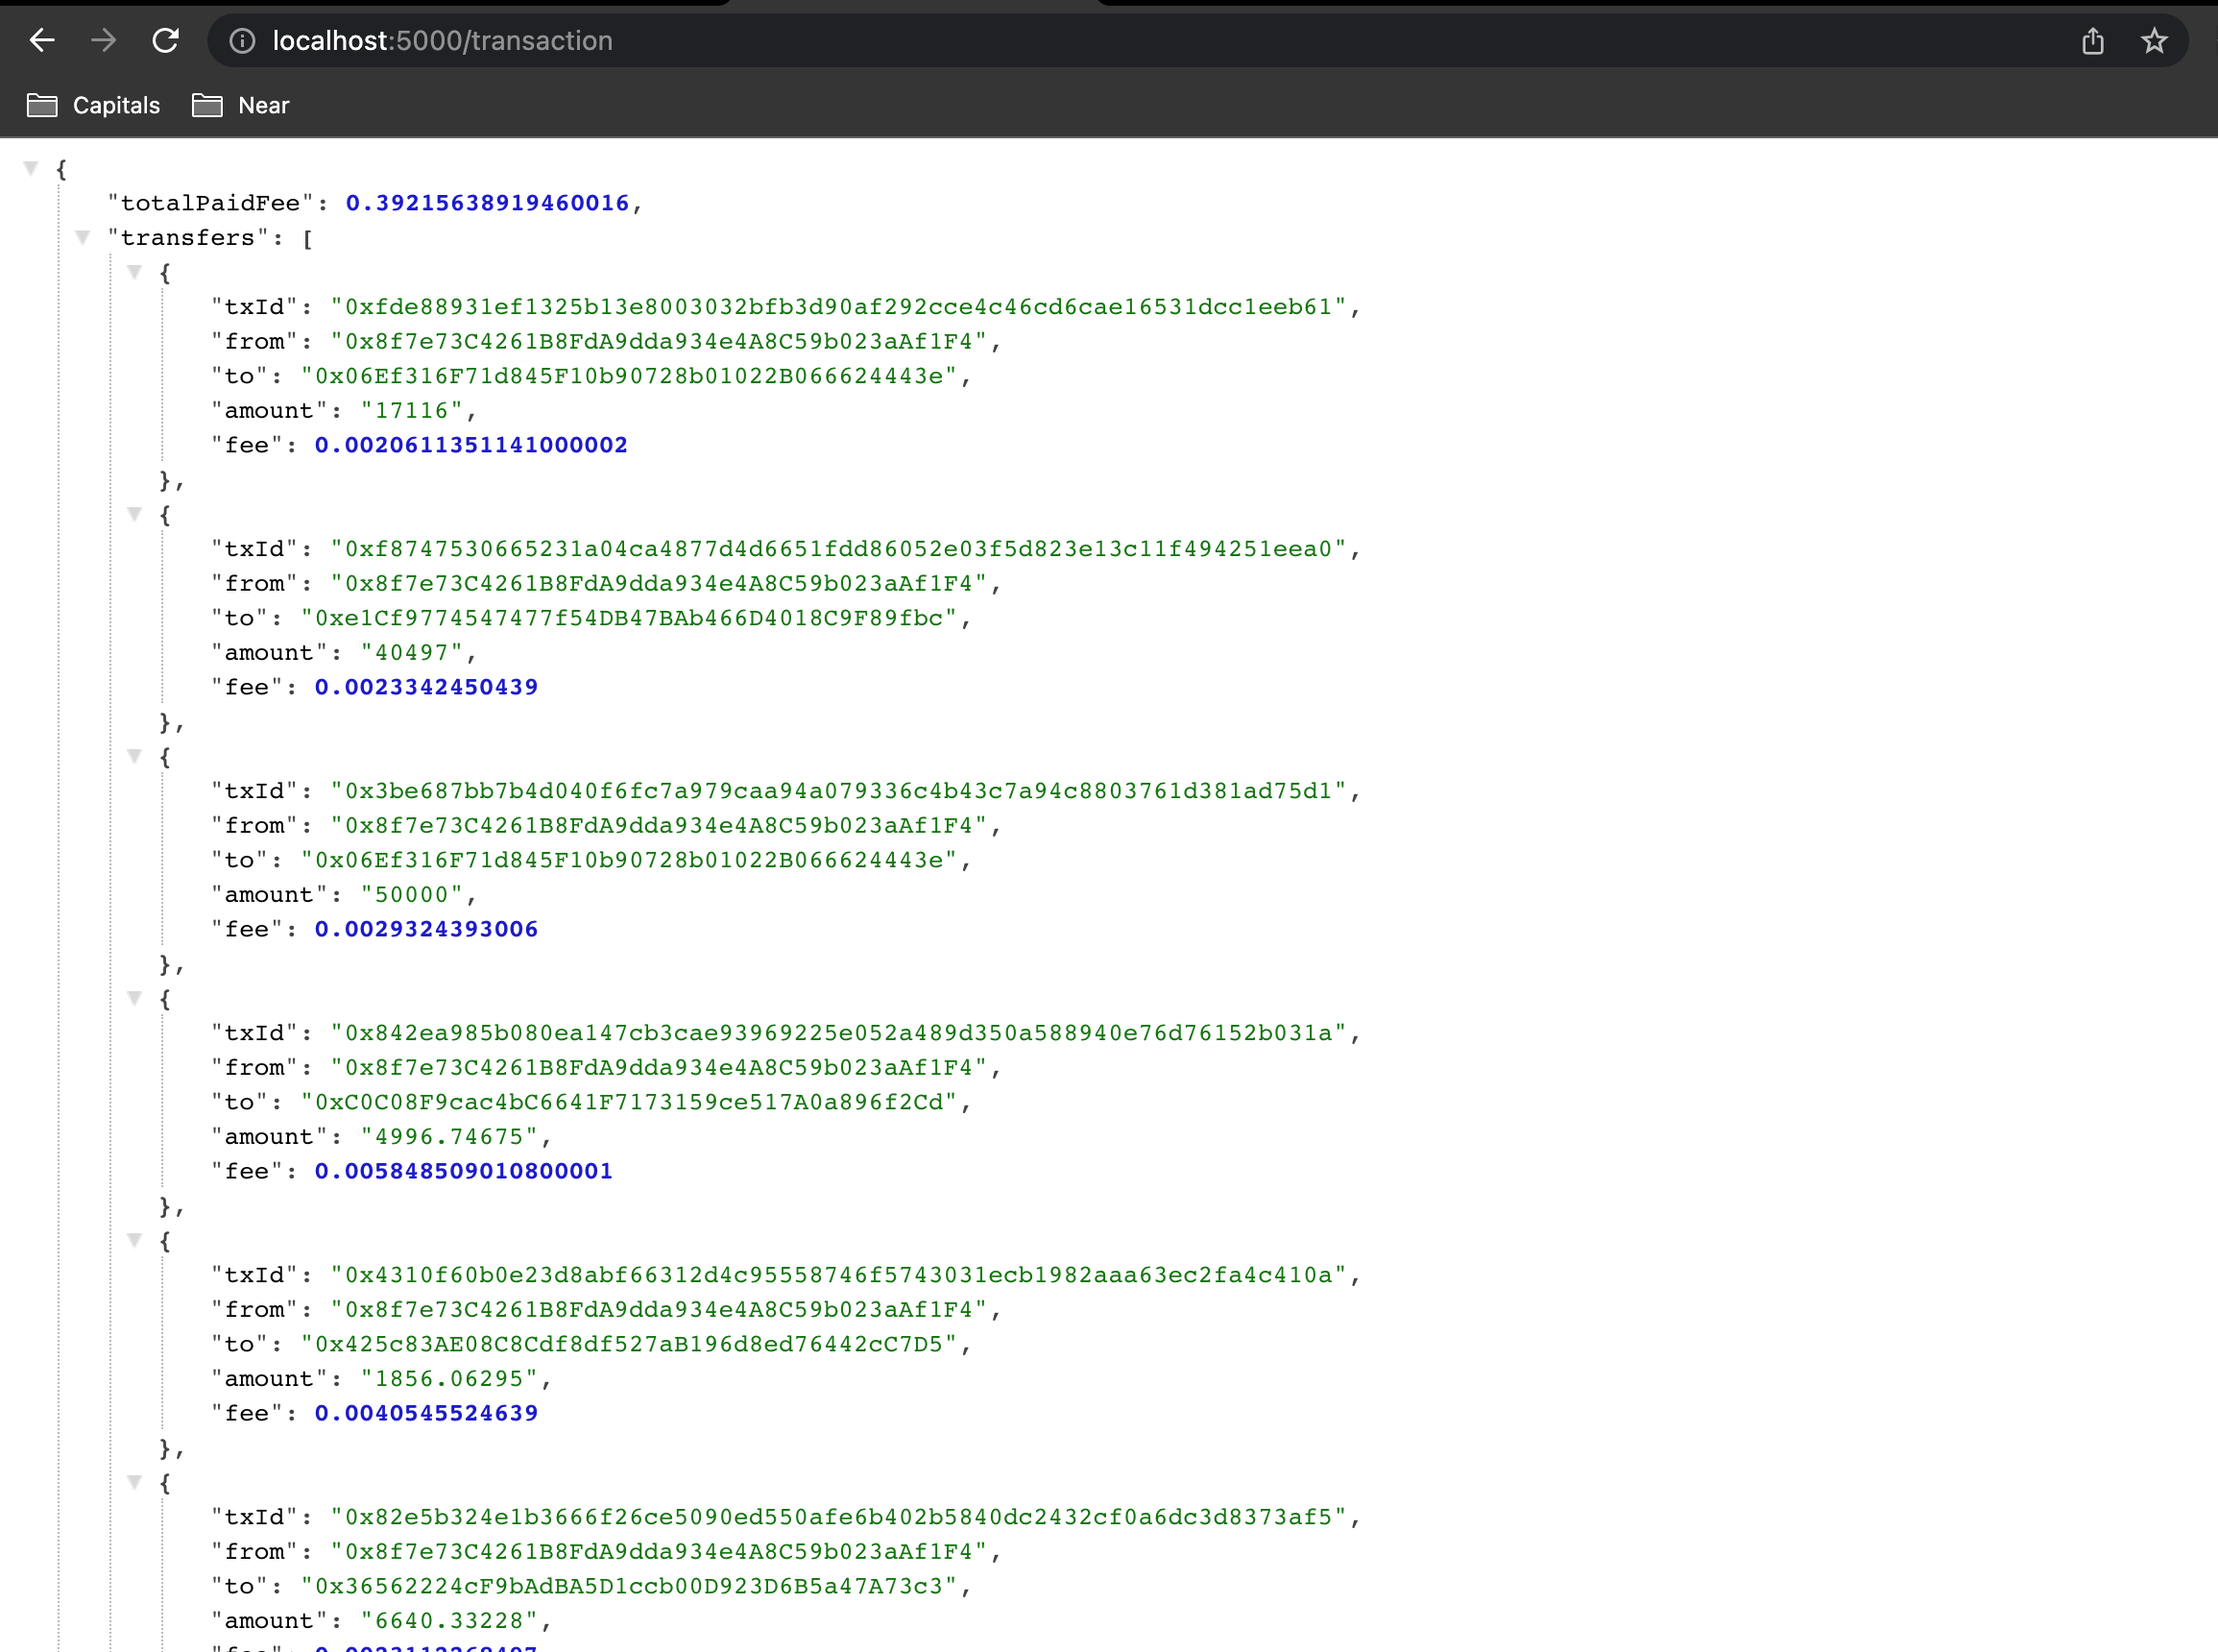
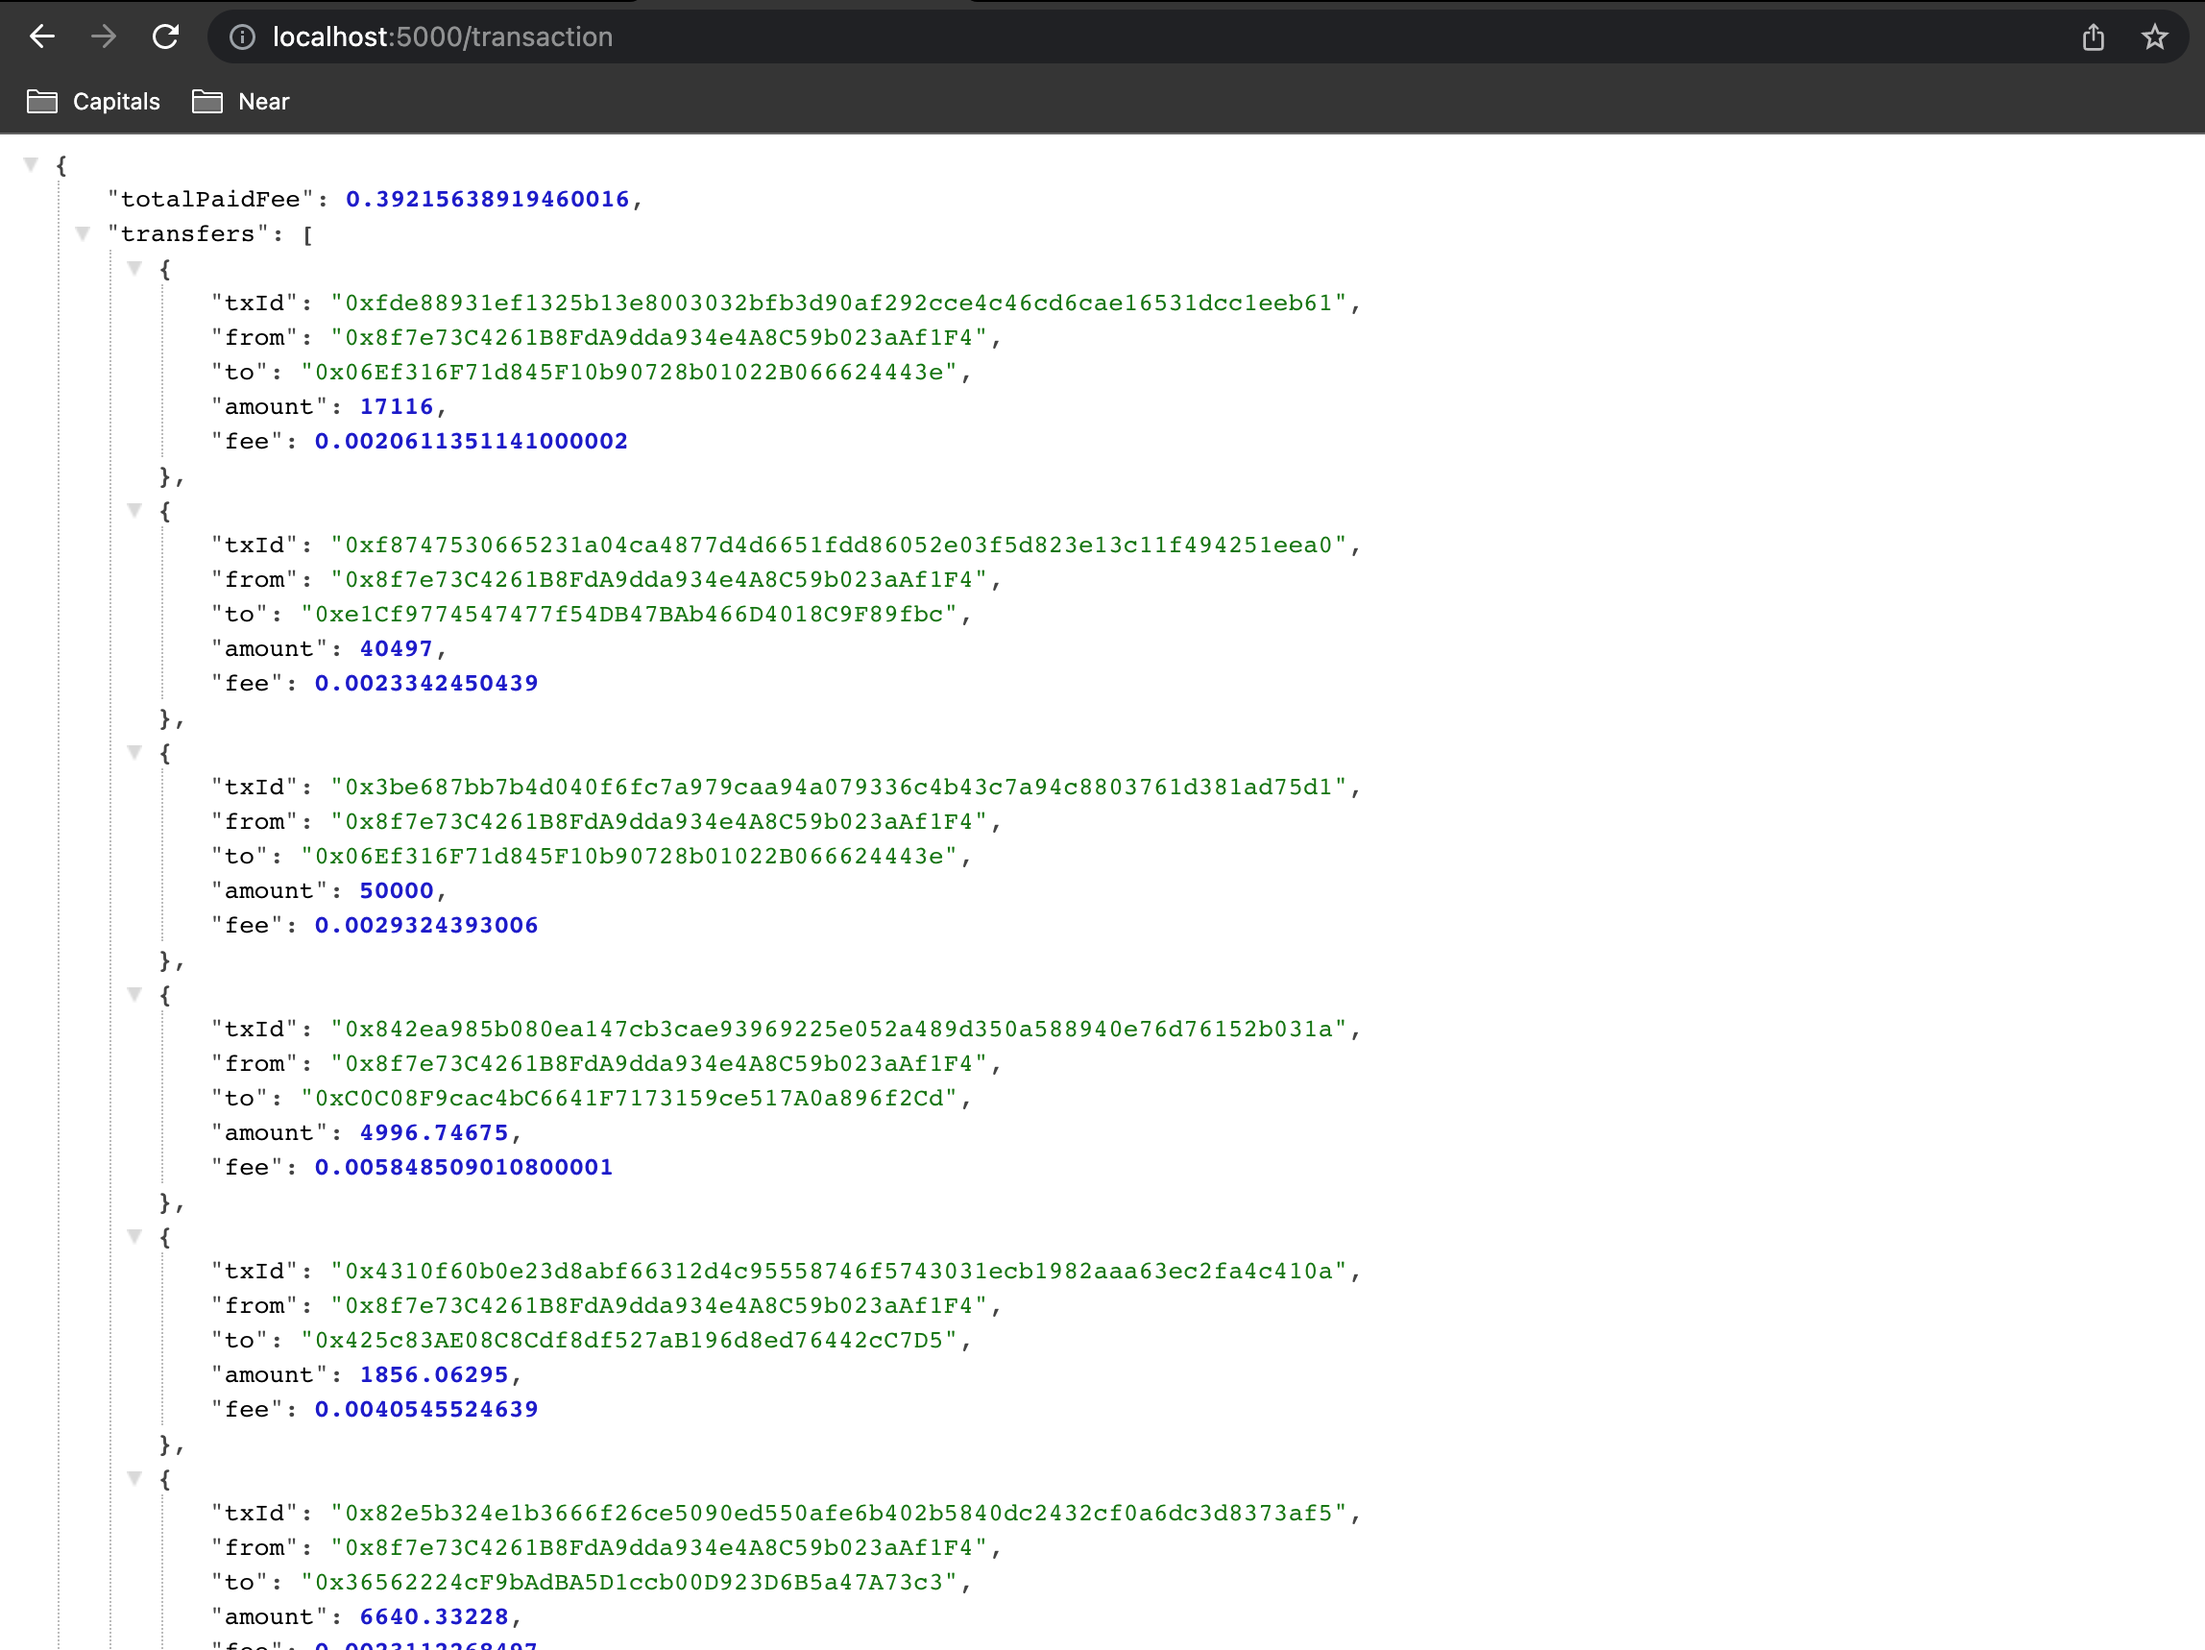
updated amount type

diff --git a/src/services/ethereum.service.js b/src/services/ethereum.service.js
@@ -18,7 +18,7 @@ const ethereumService = {
       txId: m.transactionHash, 
       from: m.returnValues.from, 
       to: m.returnValues.to, 
-      amount: web3.utils.fromWei(m.returnValues.value, unitByDecimal[tokenContract.DECIMAL])
+      amount: parseFloat(web3.utils.fromWei(m.returnValues.value, unitByDecimal[tokenContract.DECIMAL]))
     }));
 
     let receivedTransfers = await tetherContract.getPastEvents("Transfer", {
@@ -31,7 +31,7 @@ const ethereumService = {
       txId: m.transactionHash, 
       from: m.returnValues.from, 
       to: m.returnValues.to, 
-      amount: web3.utils.fromWei(m.returnValues.value, unitByDecimal[tokenContract.DECIMAL])
+      amount: parseFloat(web3.utils.fromWei(m.returnValues.value, unitByDecimal[tokenContract.DECIMAL]))
     }));
 
     //concating send-received transactions
